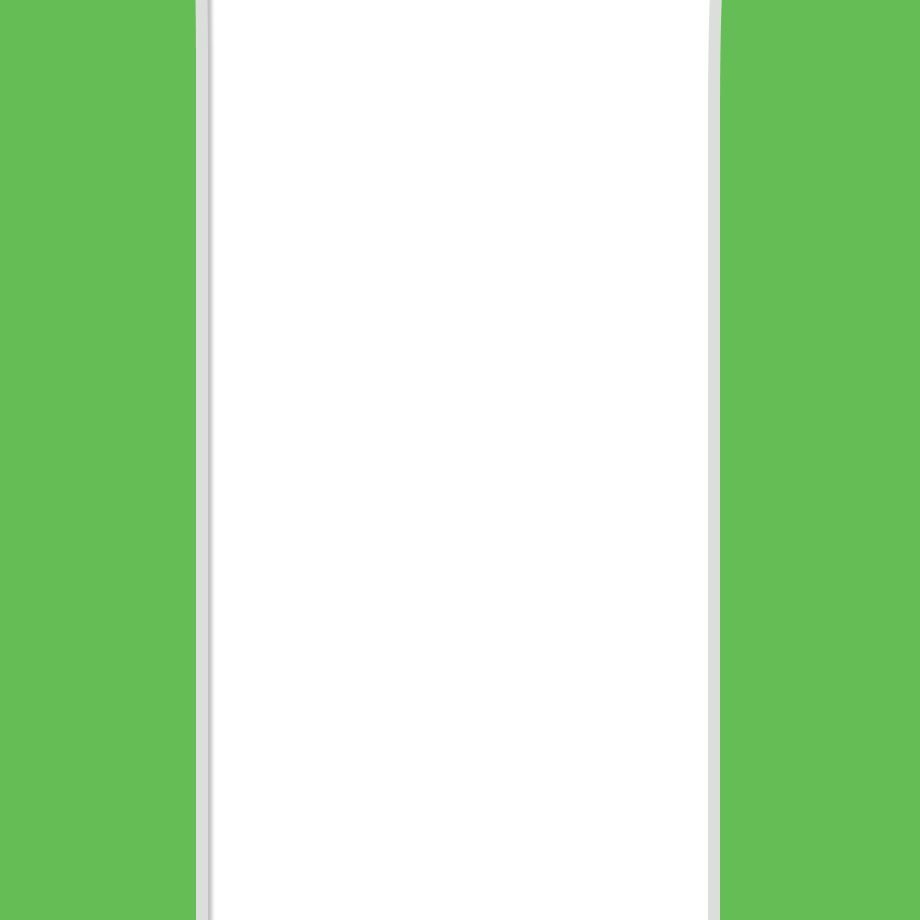
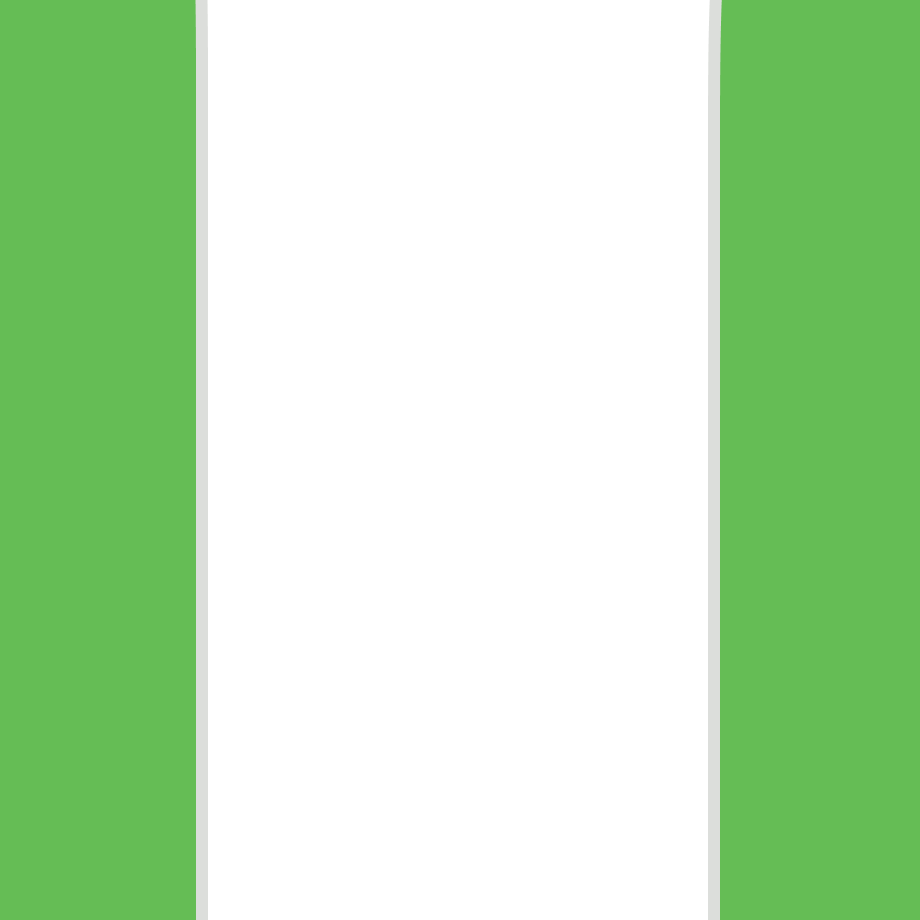
Conserto do window

Changed region(s): [[0.213, 0.0, 0.2435, 1.0]]

diff --git a/assets.py b/assets.py
@@ -14,13 +14,13 @@ B_DOIS_VD = 'b_dois_vd_img'
 B_DOIS_H = 'b_dois_h_img'
 B_TRES = 'b_tres_img'
 
-G_RETA = 'b_reta_img'
-G_RETA_E = 'b_reta_e_img'
-G_RETA_D = 'b_reta_d_img'
-G_DOIS_VE = 'b_dois_ve_img'
-G_DOIS_VD = 'b_dois_vd_img'
-G_DOIS_H = 'b_dois_h_img'
-G_TRES = 'b_tres_img'
+G_RETA = 'g_reta_img'
+G_RETA_E = 'g_reta_e_img'
+G_RETA_D = 'g_reta_d_img'
+G_DOIS_VE = 'g_dois_ve_img'
+G_DOIS_VD = 'g_dois_vd_img'
+G_DOIS_H = 'g_dois_h_img'
+G_TRES = 'g_tres_img'
 
 '''
 CARRO = 'carro_img'
@@ -78,7 +78,7 @@ def load_assets():
     assets[G_DOIS_H] = pygame.transform.scale(assets[G_DOIS_H], (WIDTH, HEIGHT))
 
     assets[B_TRES] = pygame.image.load(os.path.join(IMG_DIR, "b_tres.png")).convert()
-    assets[B_TRES] = pygame.transform.scale(assets[G_TRES], (WIDTH, HEIGHT))
+    assets[B_TRES] = pygame.transform.scale(assets[B_TRES], (WIDTH, HEIGHT))
 
     assets[G_TRES] = pygame.image.load(os.path.join(IMG_DIR, "g_tres.png")).convert_alpha()
     assets[G_TRES] = pygame.transform.scale(assets[G_TRES], (WIDTH, HEIGHT))

diff --git a/Main.py b/Main.py
@@ -8,8 +8,6 @@ from assets import *
 pygame.init()
 pygame.mixer.init()
 
-WIDTH = 920
-HEIGHT = 920
 # ----- Gera tela principal
 window = pygame.display.set_mode((WIDTH, HEIGHT))
 pygame.display.set_caption('Motinha')
@@ -76,16 +74,16 @@ while state != FIM:
     player.update()
 
     g = Grama(assets, state)
+    
     paredes.add(g)
-    
-    all_sprites.add(g)
+    #all_sprites.add(g)
 
-    window.fill(BLACK)  # Preenche com a cor preta
-    window.blit(assets[BACKGROUND], (0, 0))
+    #window.fill(BLACK)  # Preenche com a cor preta
+    #window.blit(assets[BACKGROUND], (0, 0))
     
-    window.blit(assets[G_RETA], (0, 0))
-    #paredes.draw(window)
-    #window.blit(assets[GRAMA], (x, y)) #A gente decide esse x e y no tentativa e erro
+    window.blit(assets[B_RETA], (0, 0))
+
+    paredes.draw(window)
     all_sprites.draw(window)
 
     pygame.display.update()

diff --git a/config.py b/config.py
@@ -11,9 +11,9 @@ CARRO_WIDTH = 80
 CARRO_HEIGHT = 120  #Tamanhos aleatorios ate o momento
 
 #Dados gerais
-WIDTH = 920
-HEIGHT = 920
-FPS = 60
+WIDTH = 720
+HEIGHT = 720
+FPS = 30
 
 # Define algumas variáveis com as cores básicas
 WHITE = (255, 255, 255)
